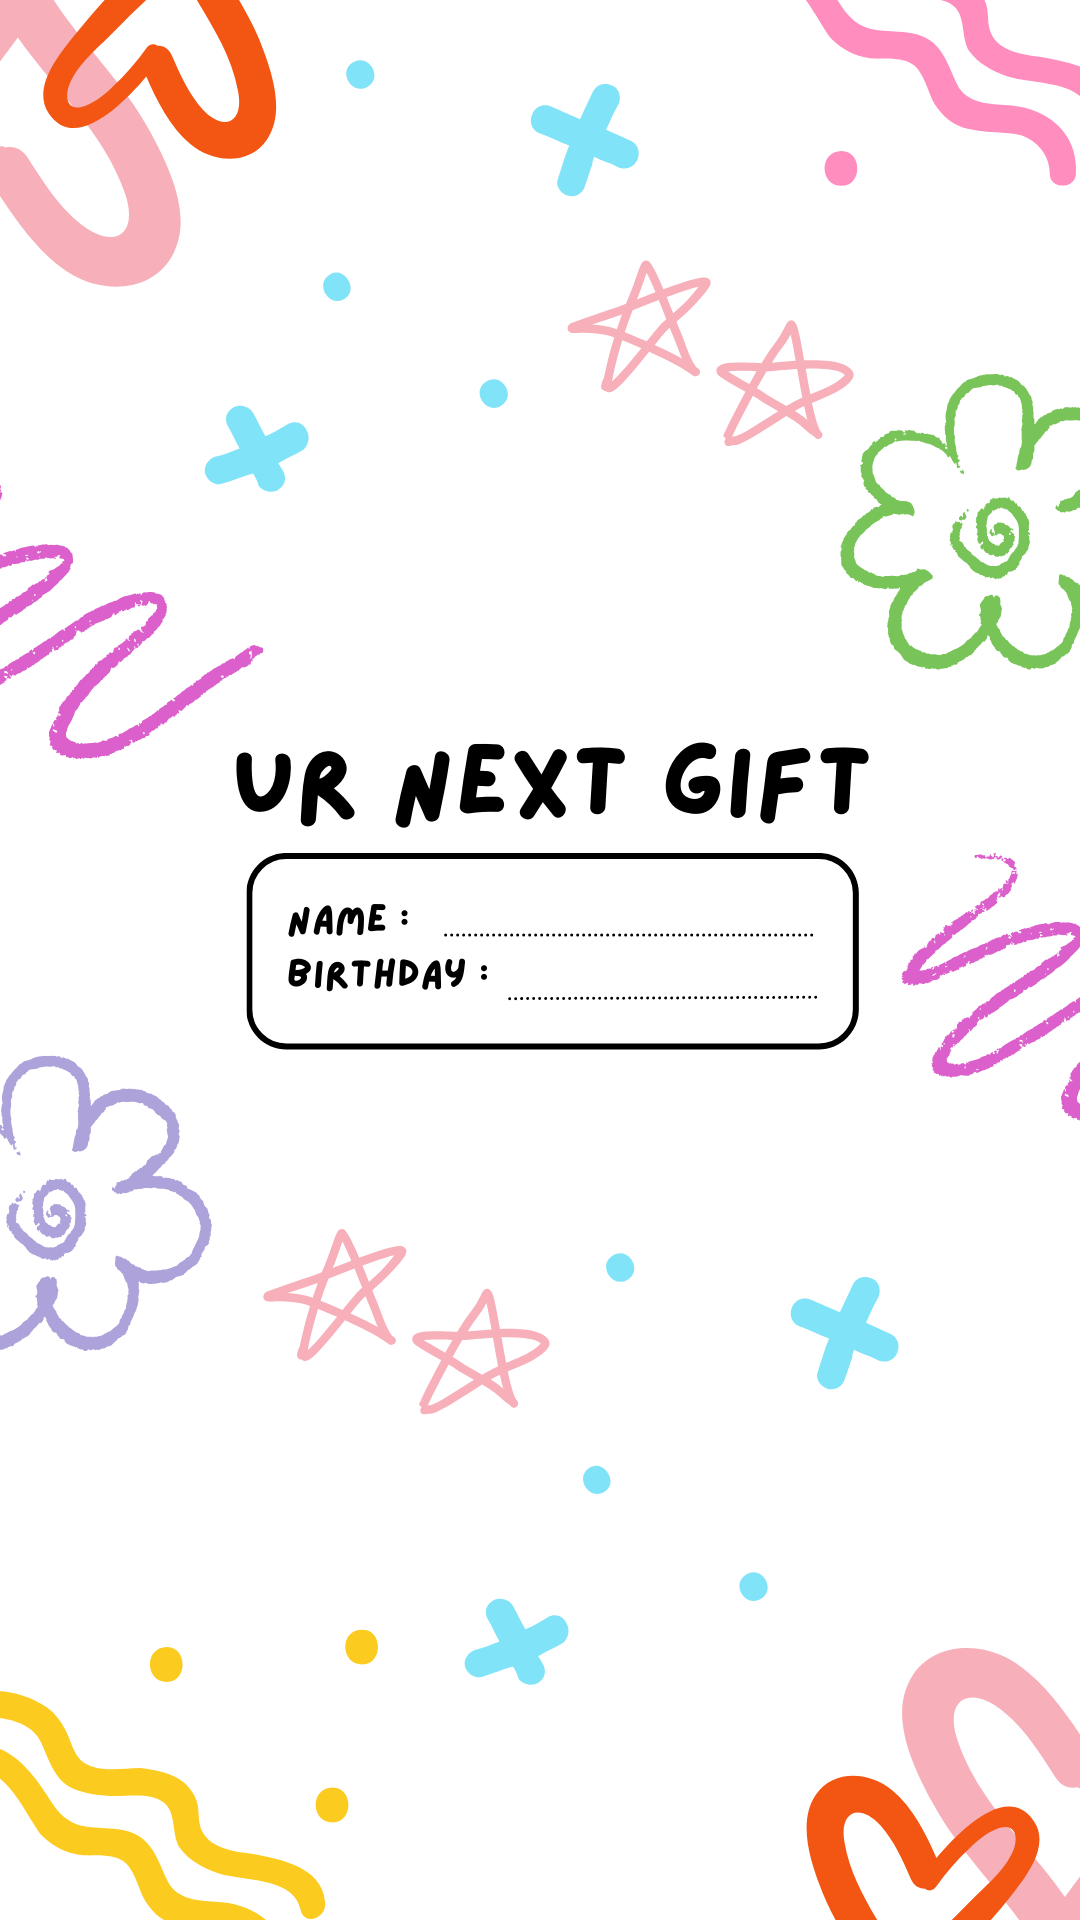
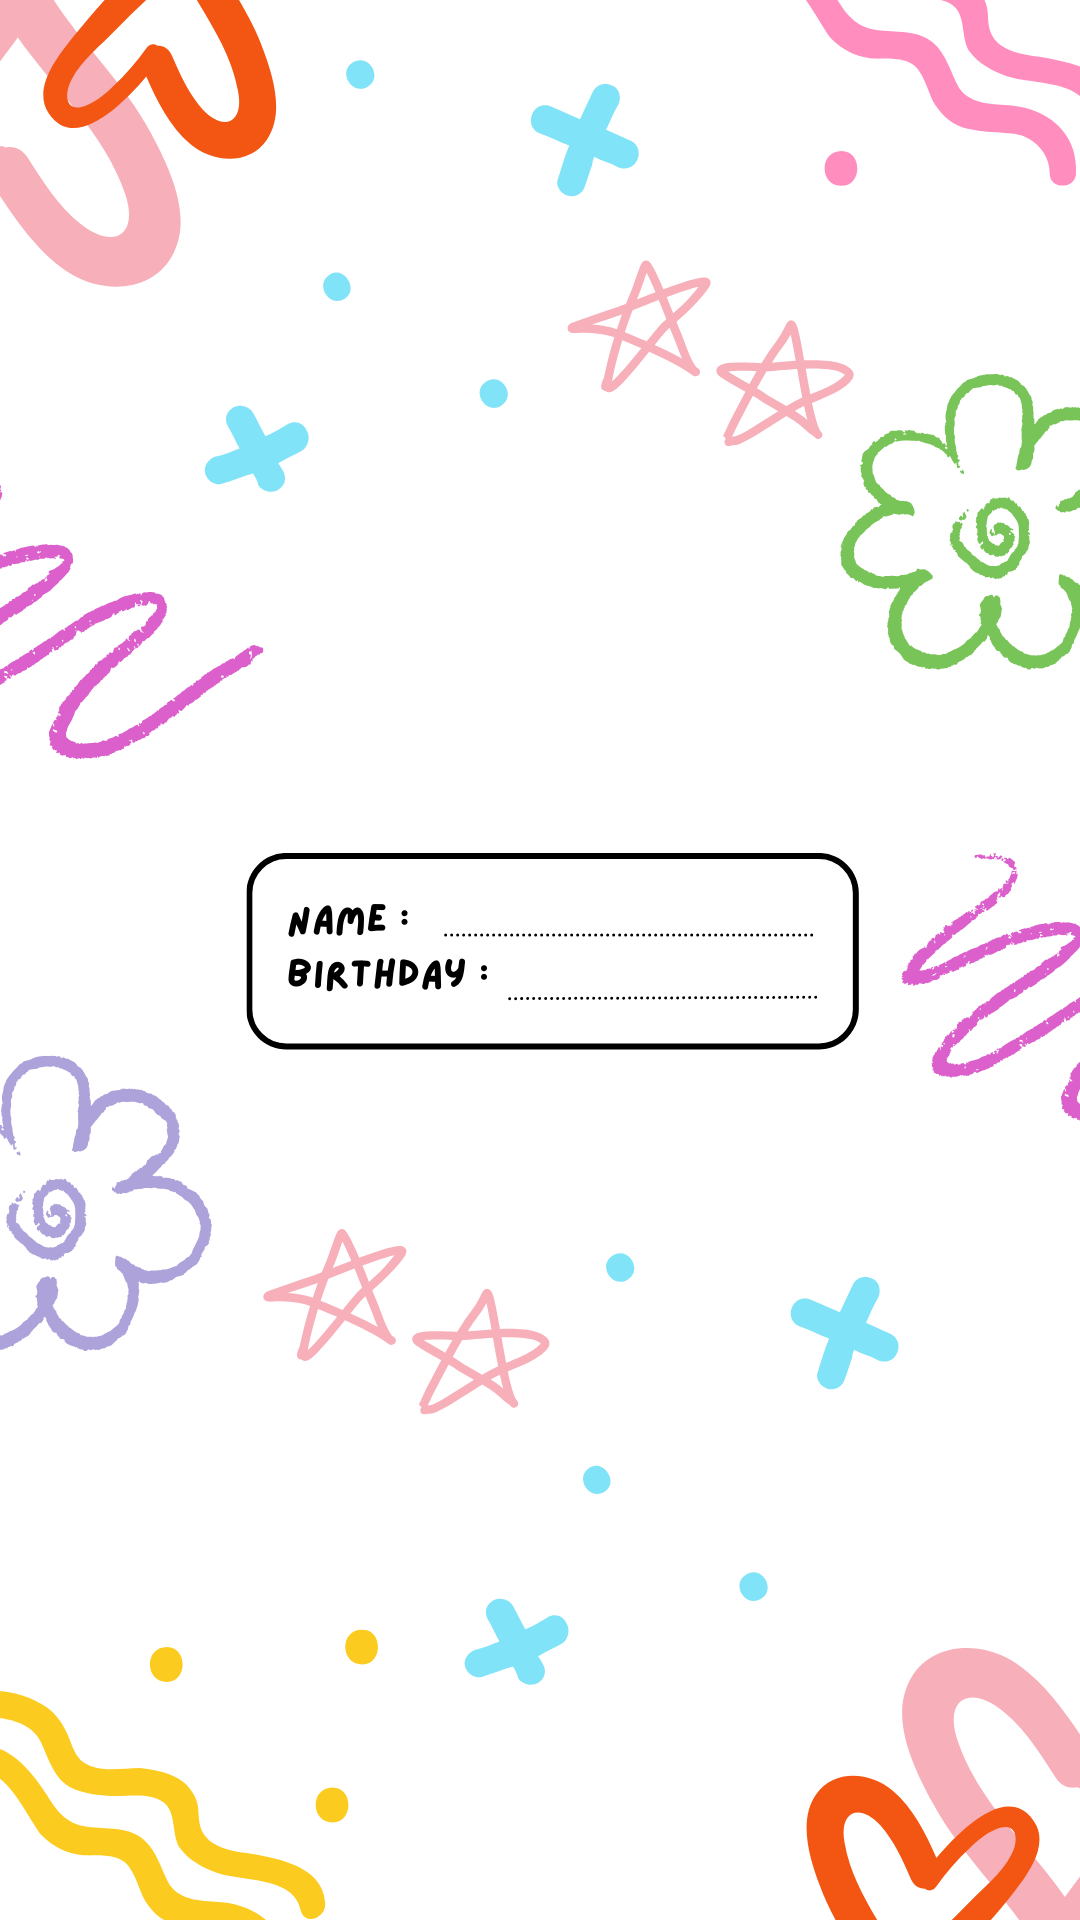
Split mobile home bg into two layers for dark mode support
- Separate background doodles and "UR NEXT GIFT" text into two images
- Text layer inverts to white in dark mode
- Fix hamburger menu icon contrast in dark mode (gray-300)

Changed region(s): [[0.3667, 0.375, 0.5806, 0.4375], [0.6111, 0.375, 0.7944, 0.4375], [0.2139, 0.375, 0.3361, 0.4375]]

diff --git a/frontend/src/components/AppLayout.jsx b/frontend/src/components/AppLayout.jsx
@@ -146,13 +146,20 @@ function AppLayout() {
           alt=""
           className={`bg-animation-top${!bgIsHomePage ? ' bg-hidden' : ''}`}
         />
-        {/* Mobile-only home background image */}
+        {/* Mobile-only home background layers */}
         {bgIsHomePage && (
-          <img
-            src="/images/phone-size-bg-image.png"
-            alt=""
-            className="mobile-home-bg"
-          />
+          <>
+            <img
+              src="/images/phone-size-bg-image.png"
+              alt=""
+              className="mobile-home-bg"
+            />
+            <img
+              src="/images/phone-size-ur-next-gift-text.png"
+              alt=""
+              className="mobile-home-text"
+            />
+          </>
         )}
         {/* <AnnouncementBar /> */}
         <NavBar />

diff --git a/frontend/src/App.css b/frontend/src/App.css
@@ -93,8 +93,9 @@ html {
   }
 }
 
-/* Mobile home background image - hidden by default */
-.mobile-home-bg {
+/* Mobile home background layers - hidden by default */
+.mobile-home-bg,
+.mobile-home-text {
   display: none;
 }
 
@@ -115,5 +116,23 @@ html {
     object-fit: cover;
     pointer-events: none;
     z-index: 2;
+  }
+
+  /* Show the mobile "UR NEXT GIFT" text layer */
+  .mobile-home-text {
+    display: block;
+    position: fixed;
+    top: 0;
+    left: 0;
+    width: 100%;
+    height: 100%;
+    object-fit: cover;
+    pointer-events: none;
+    z-index: 3;
+  }
+
+  /* Dark mode: invert the text to white */
+  .dark .mobile-home-text {
+    filter: invert(1);
   }
 }

diff --git a/frontend/src/components/NavBar.jsx b/frontend/src/components/NavBar.jsx
@@ -175,7 +175,7 @@ function NavBar() {
                 <button
                   ref={menuButtonRef}
                   onClick={() => setShowHamburgerMenu(!showHamburgerMenu)}
-                  className="flex items-center justify-center text-gray-500 hover:text-primary transition-colors p-1"
+                  className="flex items-center justify-center text-gray-500 dark:text-gray-300 hover:text-primary transition-colors p-1"
                   title="Menu"
                 >
                   {showHamburgerMenu ? (
